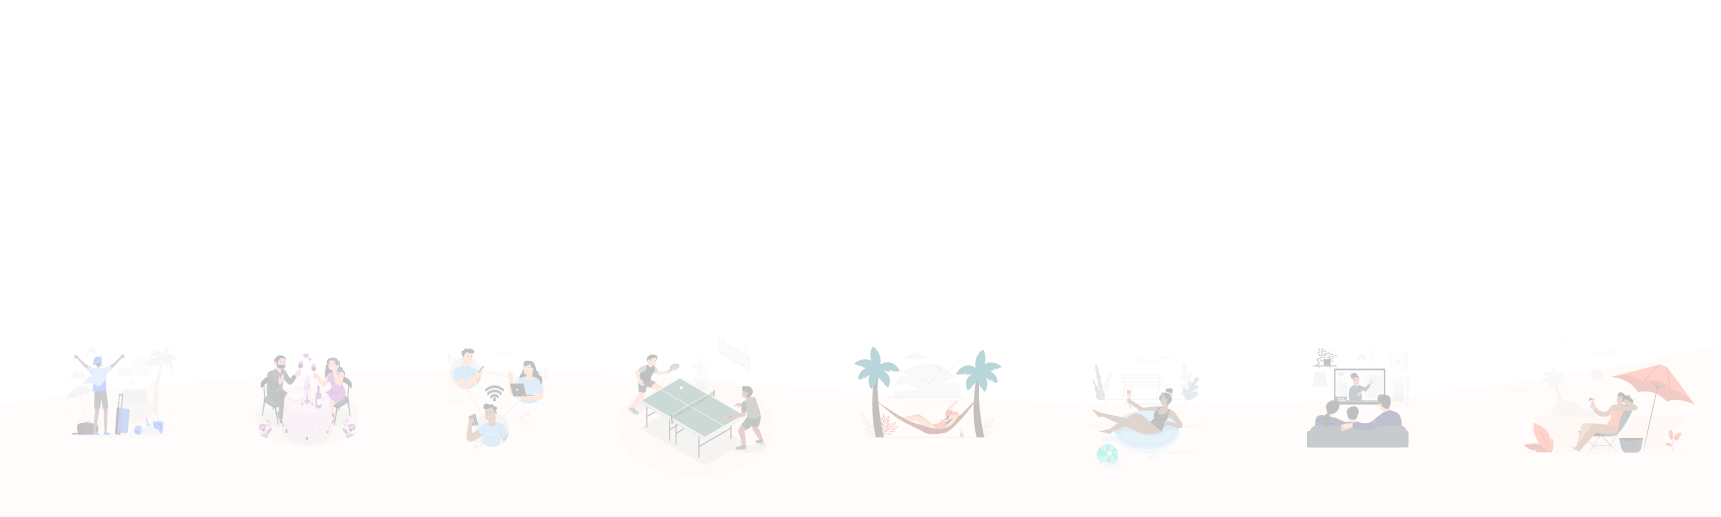
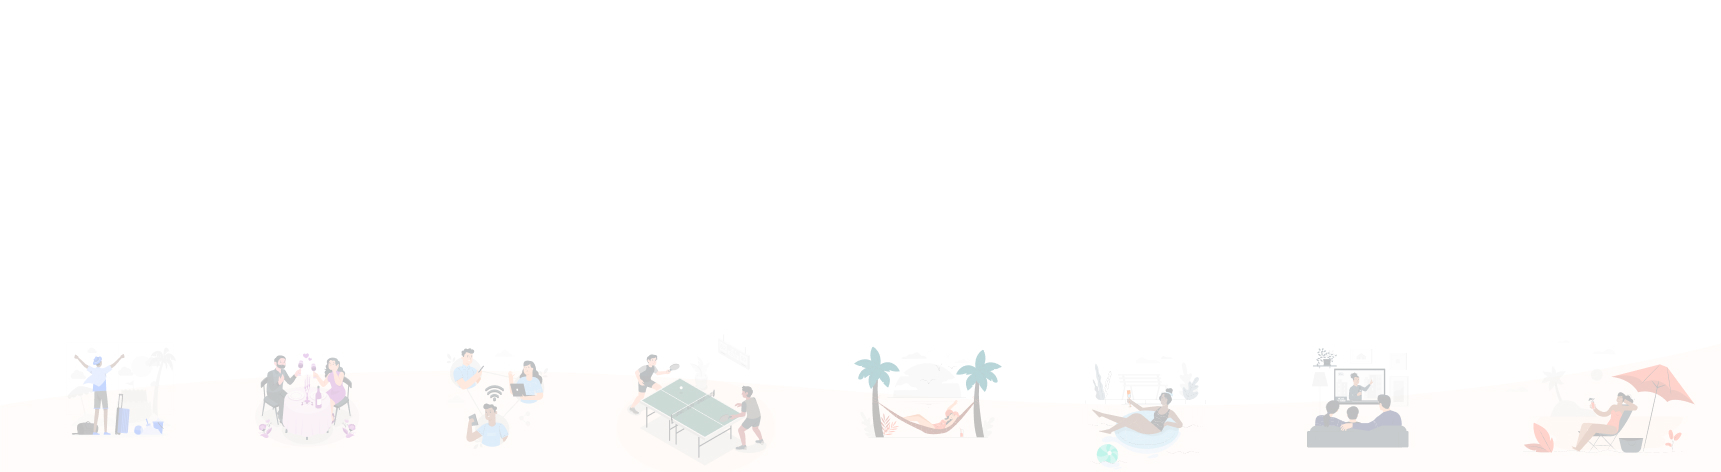
final fixes

diff --git a/pages/extras/index.vue b/pages/extras/index.vue
@@ -136,19 +136,18 @@ export default {
     }
 }
 
-.beach {
+/* .beach {
     background: url("~assets/beach_top.svg");
     background-repeat: no-repeat;
     background-position: 0px 0px;
-    /* background-size: contain; */
     background-repeat: repeat-x;
     animation: animatedBackground 60s linear infinite;
-}
+} */
 .bottom-beach {
     background: url("~assets/beach_bottom.jpg");
     background-repeat: no-repeat;
     background-position: center bottom;
-    background-size: contain;
+    background-size: cover;
     z-index: 0;
 }
 </style>

diff --git a/layouts/booking.vue b/layouts/booking.vue
@@ -56,19 +56,18 @@ export default {
     }
 }
 
-.beach {
+/* .beach {
     background: url("~assets/beach_top.svg");
     background-repeat: no-repeat;
     background-position: 0px 0px;
-    /* background-size: contain; */
     background-repeat: repeat-x;
     animation: animatedBackground 60s linear infinite;
-}
+} */
 .bottom-beach {
     background: url("~assets/beach_bottom.jpg");
     background-repeat: no-repeat;
     background-position: center bottom;
-    background-size: contain;
+    background-size: cover;
     z-index: 0;
 }
 </style>
